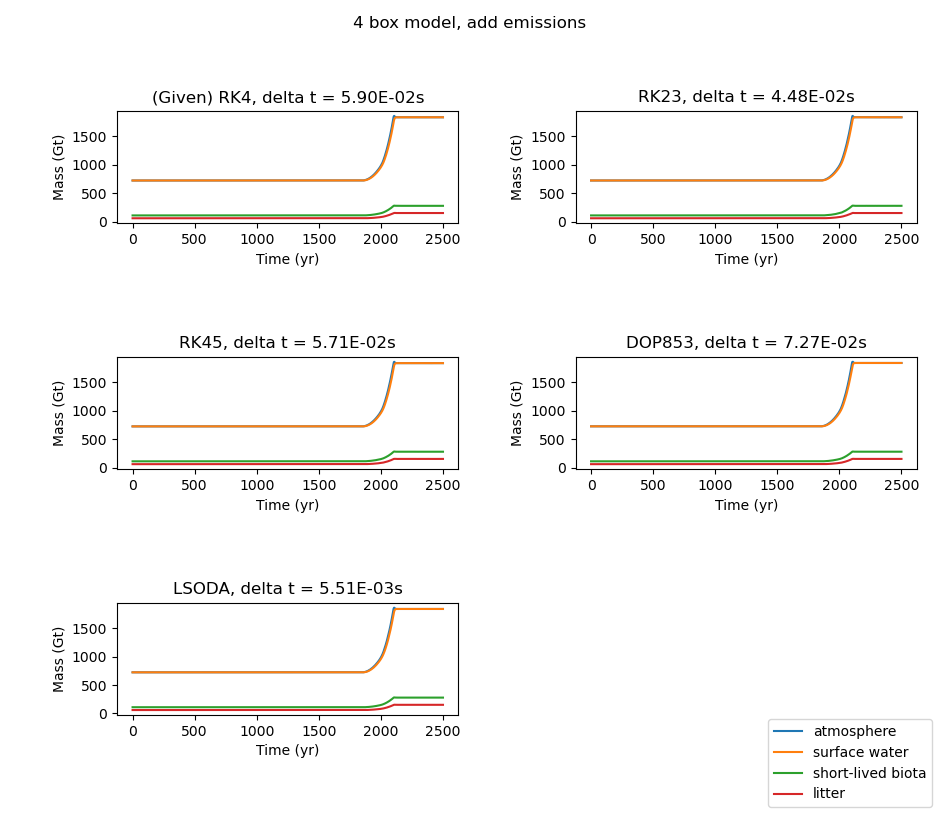
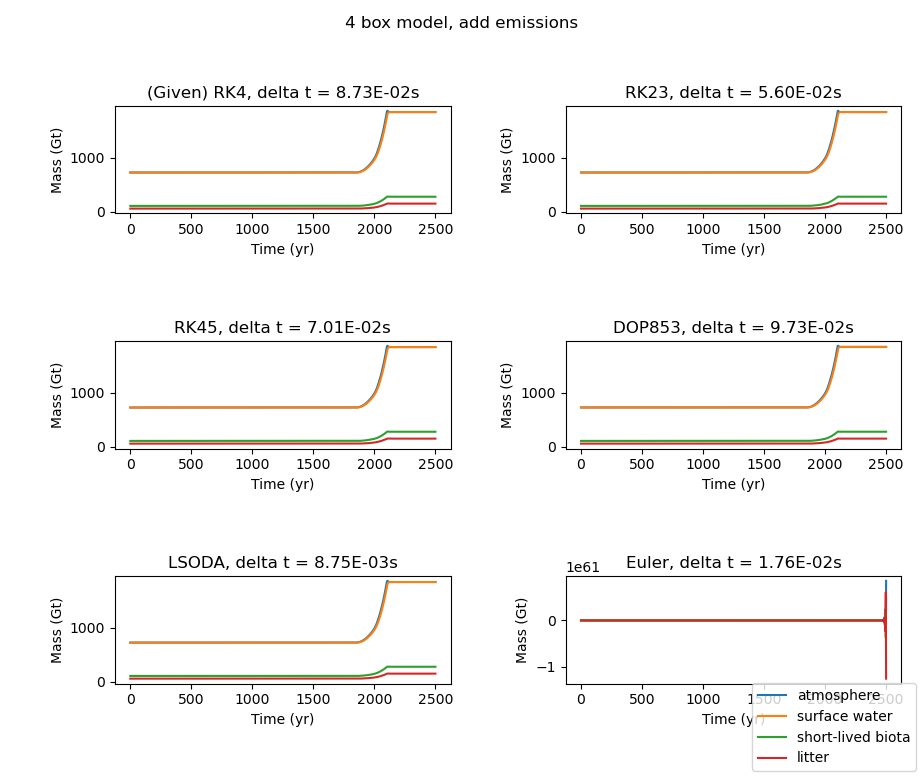
change c flux to sinusoid

diff --git a/main.py b/main.py
@@ -1,5 +1,6 @@
 from emissions import emissions
 from func_rk4 import rk4
+from euler_method import euler_method
 
 import matplotlib.pyplot as plt
 import numpy as np
@@ -9,31 +10,34 @@ import time
 
 # STEP 0.1
 # Initial values in boxes in Gt
-M1_init = 725
-M2_init = 725
-M5_init = 110
-M7_init = 60
+M1 = 725
+M2 = 725
+M5 = 110
+M7 = 60
 # Array of initial masses for each box.
-M_init = np.array([M1_init, M2_init, M5_init, M7_init])
+M_init = np.array([M1, M2, M5, M7])
 
 # Fluxes in Gt/yr (Fab is the flux from box a to box b)
-F12_init = 90
-F21_init = 90
-F71_init = 55
-F57_init = 55
-F15_init = 110
-F51_init = 55
-F72_init = 0
+F12 = 90
+F21 = 90
+F71 = 55
+F57 = 55
+F15 = 110
+F51 = 55
+F72 = 0
+
+F11, F22, F52, F25, F55, F75, F17, F27, F77 = np.zeros(9)
+
+# F matrix
+F_init = [
+    [F11, F21, F51, F71],
+    [F12, F22, F52, F72],
+    [F15, F25, F55, F75],
+    [F17, F27, F57, F77],
+]
 
 # Get rate coefficients from steady-state flux and initial mass
-k12 = F12_init/M1_init
-k21 = F21_init/M2_init
-k71 = F71_init/M7_init
-k57 = F57_init/M5_init
-k15 = F15_init/M1_init
-k51 = F51_init/M5_init
-k72 = F72_init/M2_init
-
+k = np.divide(F_init, M_init)
 
 # Function used integrators
 def dMdt(t, M):
@@ -46,17 +50,17 @@ def dMdt(t, M):
     M1, M2, M5, M7 = M
 
     # Update values for fluxes from mass.
-    F12 = k12*M1
-    F21 = k21*M2
-    F71 = k71*M7
-    F57 = k57*M5
-    F15 = k15*M1
-    F51 = k51*M5
-    F72 = k72*M7
+    F = np.multiply(k, M)
+
+    F_in = np.sum(F, axis=1)
+    F_out = np.sum(F, axis=0)
+
+    dMdt = F_in - F_out
 
     # From step 0.1, add an arbitraty flux C (in Gt/yr)
     if add_flux_C:
-        C = 15
+        T = 0.1/(2*np.pi)
+        C = (20/T)*(np.sin(t/T))
     else:
         C = 0
 
@@ -65,13 +69,7 @@ def dMdt(t, M):
     else:
         e = 0
 
-    # dMdt = flux in - flux out
-    dM1dt = (F21 + F51 + F71 + C + e) - (F12 + F15) # Add emissions to the atmosphere as part of flux in
-    dM2dt = (F12 + F72) - (F21)
-    dM5dt = (F15) - (F51 + F57)
-    dM7dt = (F57) - (F71 + F72)
-
-    dMdt = np.array([dM1dt, dM2dt, dM5dt, dM7dt])
+    dMdt[0] += C + e
     
     return dMdt
 
@@ -97,7 +95,11 @@ def plot_integrator_results(title_string):
     
     t5 = time.time()
     lsoda_sol = solve_ivp(fun=dMdt, t_span=(t_min, t_max), y0=M_init, method="LSODA", max_step=max_step)
+    
     t6 = time.time()
+    t_euler, M_euler = euler_method(fxy=dMdt, x0=t_min, xf=t_max, y0=M_init, N=n)
+    t7 = time.time()
+
 
     # Get time taken for each integrator to perform integration.
     deltat_rk4 = t2-t1
@@ -105,12 +107,13 @@ def plot_integrator_results(title_string):
     deltat_rk45 = t4-t3
     deltat_dop853 = t5-t4
     deltat_lsoda = t6-t5
+    deltat_euler = t7-t6
 
     # Arrays to loop over and plot each integration type.
-    all_t = [t_rk4, rk23_sol.t, rk45_sol.t, dop853_sol.t, lsoda_sol.t]
-    all_M = [M_rk4.real, rk23_sol.y.T, rk45_sol.y.T, dop853_sol.y.T, lsoda_sol.y.T]
-    deltat = [deltat_rk4, deltat_rk23, deltat_rk45, deltat_dop853, deltat_lsoda]
-    plot_types = ["(Given) RK4", "RK23", "RK45", "DOP853", "LSODA"]
+    all_t = [t_rk4, rk23_sol.t, rk45_sol.t, dop853_sol.t, lsoda_sol.t, t_euler]
+    all_M = [M_rk4.real, rk23_sol.y.T, rk45_sol.y.T, dop853_sol.y.T, lsoda_sol.y.T, M_euler]
+    deltat = [deltat_rk4, deltat_rk23, deltat_rk45, deltat_dop853, deltat_lsoda, deltat_euler]
+    plot_types = ["(Given) RK4", "RK23", "RK45", "DOP853", "LSODA", "Euler"]
 
     # Plotting    
     fig, ax = plt.subplots()
@@ -121,10 +124,6 @@ def plot_integrator_results(title_string):
         plt.xlabel('Time (yr)')
         plt.ylabel('Mass (Gt)')
         plt.title(plot_types[ii] + ", delta t = " + "{:.2E}".format(deltat[ii]) + "s")
-
-        #plt.axvline(x=1990)
-        #plt.axvline(x=2100)
-        #plt.xlim([1800, 2200])
     
     plt.suptitle(title_string)
     fig.legend(['atmosphere', 'surface water', 'short-lived biota', 'litter'], loc="lower right")
@@ -137,13 +136,13 @@ def plot_integrator_results(title_string):
 
 #add_flux_C = True
 add_flux_C = False
-add_emissions = True
-#add_emissions = False
+#add_emissions = True
+add_emissions = False
 
 title_string = "4 box model"
 
 if add_flux_C:
-    title_string += ", add flux C = 15 Gt/yr"
+    title_string += ", add sinusoidal flux C"
 if add_emissions:
     title_string += ", add emissions"
 

diff --git a/euler_method.py b/euler_method.py
@@ -1,0 +1,13 @@
+import numpy as np
+
+def euler_method(fxy, x0, xf, y0, N):
+    dt = (xf-x0)/N    
+    t = np.linspace(x0, xf, N)
+    y = np.empty((N, len(y0)))
+    y[0] = y0
+    
+    #march forward in time
+    for ii in range(len(t)-1):
+        y[ii+1] = y[ii] + fxy(t[ii], y[ii])*dt
+        
+    return t, y
